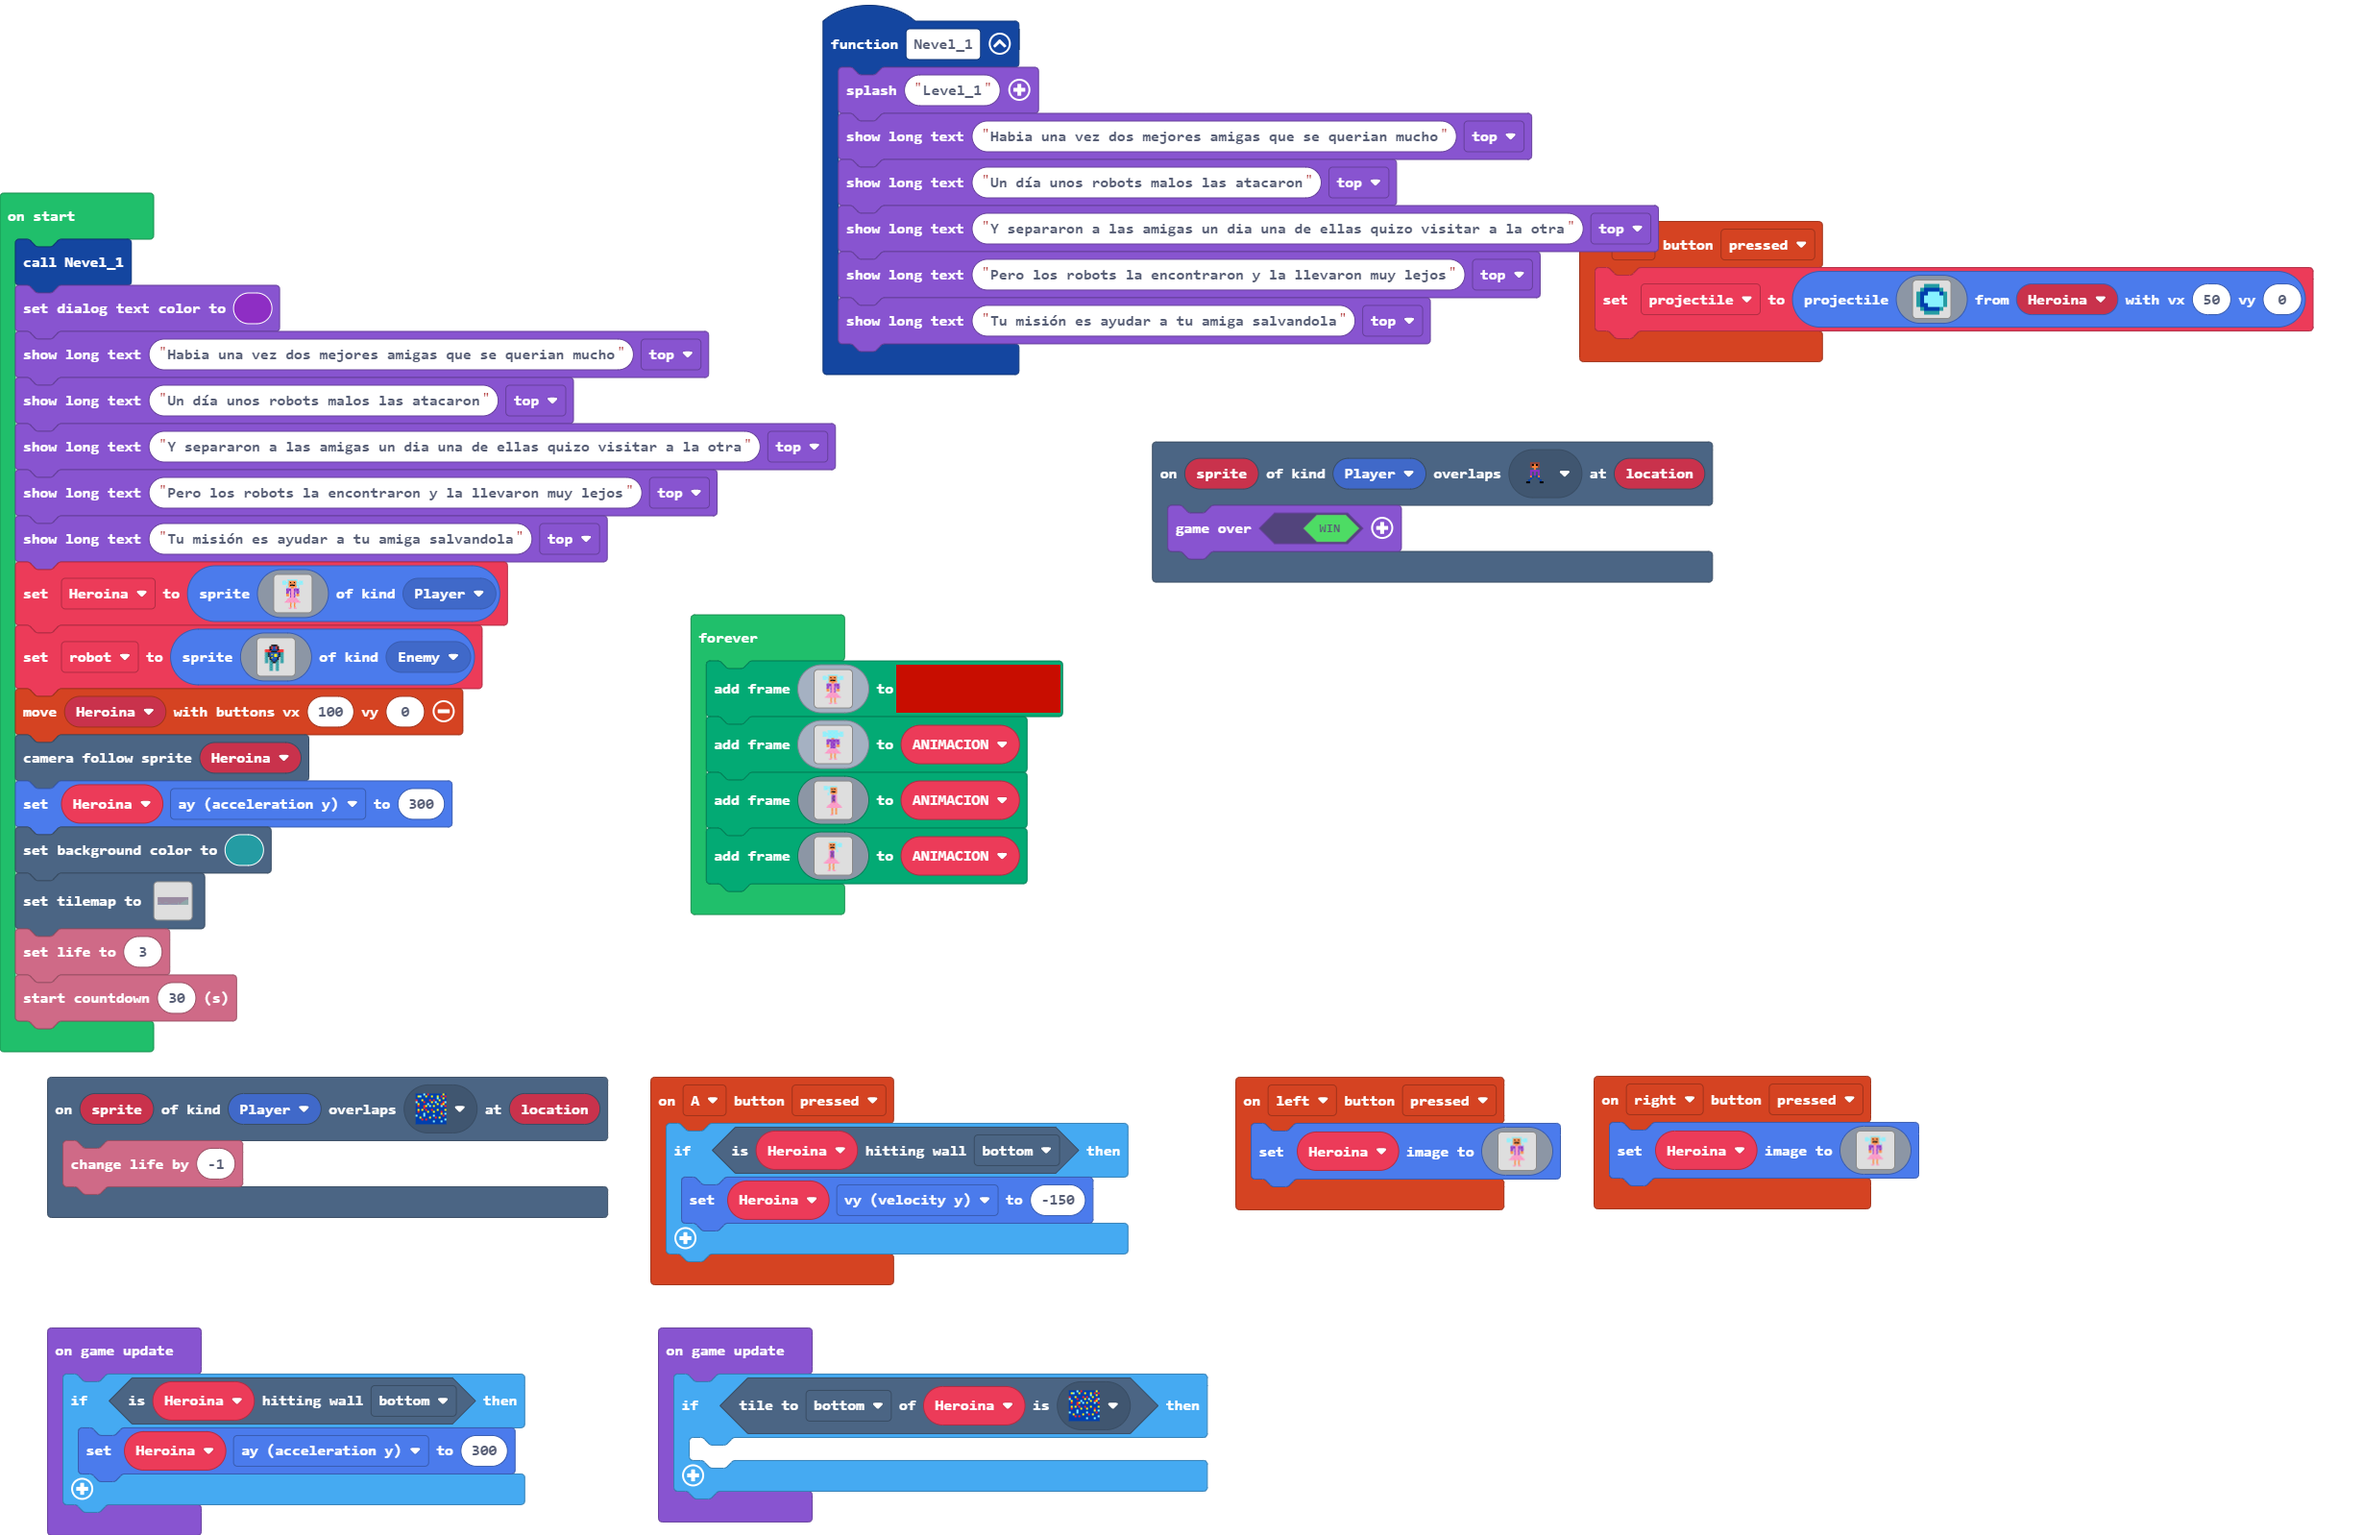
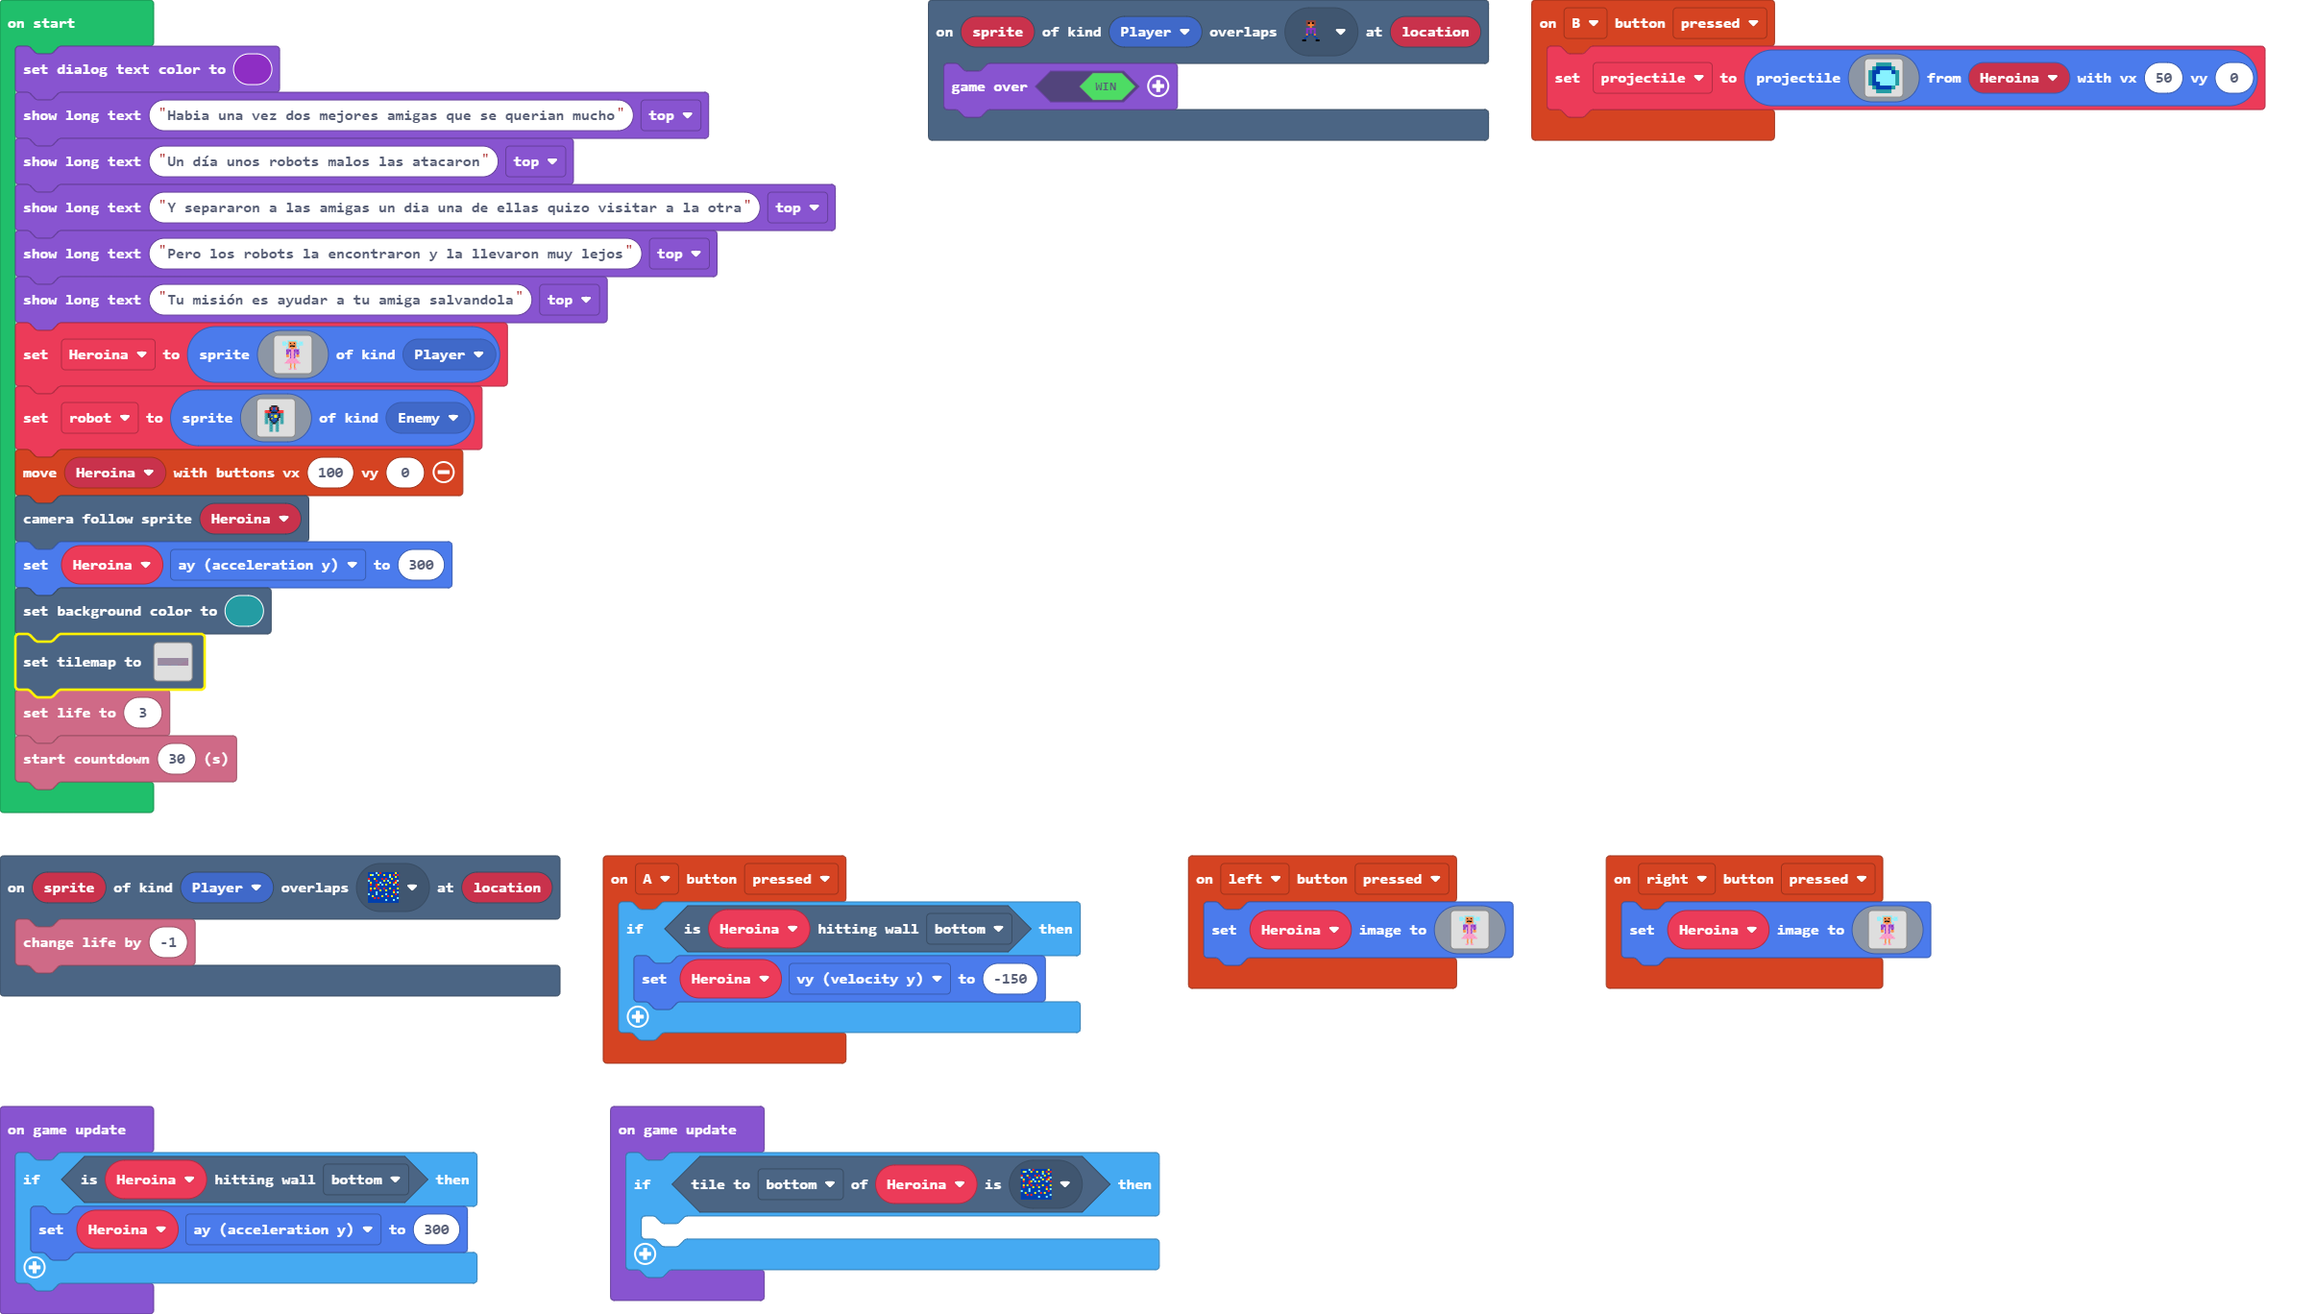
color de mapa

diff --git a/main.ts b/main.ts
@@ -1,18 +1,9 @@
 namespace SpriteKind {
     export const Mascota = SpriteKind.create()
-    export const Premio_1 = SpriteKind.create()
 }
 scene.onOverlapTile(SpriteKind.Player, myTiles.tile3, function (sprite, location) {
     game.over(true)
 })
-function Nevel_1 () {
-    game.splash("Level_1")
-    game.showLongText("Habia una vez dos mejores amigas que se querian mucho", DialogLayout.Top)
-    game.showLongText("Un día unos robots malos las atacaron", DialogLayout.Top)
-    game.showLongText("Y separaron a las amigas un dia una de ellas quizo visitar a la otra", DialogLayout.Top)
-    game.showLongText("Pero los robots la encontraron y la llevaron muy lejos", DialogLayout.Top)
-    game.showLongText("Tu misión es ayudar a tu amiga salvandola", DialogLayout.Top)
-}
 controller.B.onEvent(ControllerButtonEvent.Pressed, function () {
     projectile = sprites.createProjectileFromSprite(img`
         . . 6 6 6 6 . . 
@@ -91,7 +82,6 @@ controller.right.onEvent(ControllerButtonEvent.Pressed, function () {
 })
 let projectile: Sprite = null
 let Heroina: Sprite = null
-Nevel_1()
 game.setDialogTextColor(10)
 game.showLongText("Habia una vez dos mejores amigas que se querian mucho", DialogLayout.Top)
 game.showLongText("Un día unos robots malos las atacaron", DialogLayout.Top)
@@ -150,7 +140,7 @@ controller.moveSprite(Heroina, 100, 0)
 scene.cameraFollowSprite(Heroina)
 Heroina.ay = 300
 scene.setBackgroundColor(6)
-tiles.setTilemap(tiles.createTilemap(hex`4000100004040404040404040404040404040404040404040404040404040404040404040404040404040404040404040404040404040404040404040404040404040404040404040404040404040404040404040404040404040404040404040404040404040404040404040404040404040404040404040404040404040404040404040404040404040404040404040404040404040404040404040404040404040404040404040404040404040404040404040404040404040404040404040404040404040404040404040404040404040404040404040404040404040404040404040404040404040404040404040404040404040404040404040404040404040404040404040404040404040404040404040404040404040404040404040404040404040404040404040404040404040404040404040404040404040404040404020404040404040404040404040404040404040404040404040404040404040404040404040404040404040404040404040404040404040404040404040101010104040404040404040404040404040404040404040404040404040404040404040404040404040404040404040404040404040404040404040404010101010101040404040404040404040404040404040404040404040404040404040404040404040404040404040404040404040404040404040404040401010101010101010404040404040404040404040404040404040404040404040404040404040404040404040404040404040404040404040404040404040101010101010101010104040404040404040404040404040404040404040404040404040404040404040404040404040404040404040404040404040404040101010101010101010101040404040404040404040404040404040404040404040404040404040404040404040404040404010404040404040404040404010101010101010101010101010101010101010404040404040404010101010101010404040404040404040404040404040404040404040101040404040404010101010101010101010101010104040404040404040404040401040404040404040404040404040404040404040404040404010404040401010404040404010101010101010101010101010101040404040404010404040404040404040404040404040404040404040104010404010401040404040404010104040404010101010101010101010101010101010404040404040404040104040404040404040404040404040404040404040404040404040404040404040101040404010101010101010101010101010101010103030303030303030303030303030303030303030303010101010101030303030303030303030303030301010101010101010101010101010101010101010101`, img`
+tiles.setTilemap(tiles.createTilemap(hex`4000100003030303030303030303030303030303030303030303030303030303030303030303030303030303030303030303030303030303030303030303030303030303030303030303030303030303030303030303030303030303030303030303030303030303030303030303030303030303030303030303030303030303030303030303030303030303030303030303030303030303030303030303030303030303030303030303030303030303030303030303030303030303030303030303030303030303030303030303030303030303030303030303030303030303030303030303030303030303030303030303030303030303030303030303030303030303030303030303030303030303030303030303030303030303030303030303030303030303030303030303030303030303030303030303030303030303030303010303030303030303030303030303030303030303030303030303030303030303030303030303030303030303030303030303030303030303030303030404040403030303030303030303030303030303030303030303030303030303030303030303030303030303030303030303030303030303030303030303040404040404030303030303030303030303030303030303030303030303030303030303030303030303030303030303030303030303030303030303030304040404040404040303030303030303030303030303030303030303030303030303030303030303030303030303030303030303030303030303030303030404040404040404040403030303030303030303030303030303030303030303030303030303030303030303030303030303030303030303030303030303030404040404040404040404030303030303030303030303030303030303030303030303030303030303030303030303030303040303030303030303030303040404040404040404040404040404040404040303030303030303040404040404040303030303030303030303030303030303030303030404030303030303040404040404040404040404040403030303030303030303030304030303030303030303030303030303030303030303030303040303030304040303030303040404040404040404040404040404030303030303040303030303030303030303030303030303030303030403040303040304030303030303040403030303040404040404040404040404040404040303030303030303030403030303030303030303030303030303030303030303030303030303030303030404030303040404040404040404040404040404040402020202020202020202020202020202020202020202040404040404020202020202020202020202020204040404040404040404040404040404040404040404`, img`
     . . . . . . . . . . . . . . . . . . . . . . . . . . . . . . . . . . . . . . . . . . . . . . . . . . . . . . . . . . . . . . . . 
     . . . . . . . . . . . . . . . . . . . . . . . . . . . . . . . . . . . . . . . . . . . . . . . . . . . . . . . . . . . . . . . . 
     . . . . . . . . . . . . . . . . . . . . . . . . . . . . . . . . . . . . . . . . . . . . . . . . . . . . . . . . . . . . . . . . 
@@ -167,7 +157,7 @@ tiles.setTilemap(tiles.createTilemap(hex`400010000404040404040404040404040404040
     . . . . . . 2 . . . . . . . . . . . . . . . . . . . . . 2 . 2 . . 2 . 2 . . . . . . 2 2 . . . . 2 2 2 2 2 2 2 2 2 2 2 2 2 2 2 2 
     . . . . . . . . . 2 . . . . . . . . . . . . . . . . . . . . . . . . . . . . . . . . 2 2 . . . 2 2 2 2 2 2 2 2 2 2 2 2 2 2 2 2 2 
     . . . . . . . . . . . . . . . . . . . . . . 2 2 2 2 2 2 . . . . . . . . . . . . . . 2 2 2 2 2 2 2 2 2 2 2 2 2 2 2 2 2 2 2 2 2 2 
-    `, [myTiles.transparency16,sprites.dungeon.greenOuterNorth0,myTiles.tile3,myTiles.tile4,myTiles.tile5], TileScale.Sixteen))
+    `, [myTiles.transparency16,myTiles.tile3,myTiles.tile4,myTiles.tile5,myTiles.tile6], TileScale.Sixteen))
 info.setLife(3)
 info.startCountdown(30)
 game.onUpdate(function () {
@@ -179,111 +169,4 @@ game.onUpdate(function () {
     if (Heroina.tileKindAt(TileDirection.Bottom, myTiles.tile4)) {
     	
     }
-})
-forever(function () {
-    let ANIMACION: animation.Animation = null
-    ANIMACION.addAnimationFrame(img`
-        . . . . . . . . . . . . . . . . 
-        . . . . 9 9 9 9 9 9 9 9 . . . . 
-        9 9 9 . 9 4 4 4 4 4 4 9 . 9 9 9 
-        9 9 9 9 9 4 f 4 4 f 4 9 9 9 9 9 
-        9 9 9 . 9 4 4 4 4 4 4 9 . 9 9 9 
-        . . . . 9 4 f f f f 4 9 9 . . . 
-        . . . 9 . 4 4 4 4 4 4 . 9 . . . 
-        . . . 9 . . . 4 4 . . . 9 . . . 
-        . . . a a a a 3 3 a a a a . . . 
-        . . . a a a a 3 3 a a a a . . . 
-        . . . a a . a 3 3 a . a a . . . 
-        . . . a a . a 3 3 a . a a . . . 
-        . . . 4 4 . a 3 3 a . 4 4 . . . 
-        . . . 4 4 . a 3 3 a . 4 4 . . . 
-        . . . . . . a 3 3 a . . . . . . 
-        . . . . . 3 3 3 3 3 3 . . . . . 
-        . . . . 3 3 3 3 3 3 3 3 . . . . 
-        . . . 3 3 3 3 3 3 3 3 3 3 . . . 
-        . . 3 3 3 3 3 3 3 3 3 3 3 3 . . 
-        . . . . . . 4 . . 4 . . . . . . 
-        . . . . . . 4 . . 4 . . . . . . 
-        . . . . . . 4 . . 4 . . . . . . 
-        . . . . . . 4 . . 4 . . . . . . 
-        . . . . . 3 3 . . 3 3 . . . . . 
-        `)
-    ANIMACION.addAnimationFrame(img`
-        . . . . . . . . . . . . . . . . 
-        . . . . 9 9 9 9 9 9 9 9 . . . . 
-        9 9 9 . 9 9 9 9 9 9 9 9 . 9 9 9 
-        9 9 9 9 9 9 9 9 9 9 9 9 9 9 9 9 
-        9 9 9 9 9 9 9 9 9 9 9 9 9 9 9 9 
-        9 9 9 . 9 9 9 9 9 9 9 9 . 9 9 9 
-        . . . . 9 9 9 9 9 9 9 9 . . . . 
-        . . . . . . . 4 4 . . . . . . . 
-        . . . a a a a a a a a a a . . . 
-        . . . a a a a a a a a a a . . . 
-        . . . a a . a a a a . a a . . . 
-        . . . a a . a a a a . a a . . . 
-        . . . 4 4 . a a a a . 4 4 . . . 
-        . . . 4 4 . a a a a . 4 4 . . . 
-        . . . . . . a a a a . . . . . . 
-        . . . . . 3 3 3 3 3 3 . . . . . 
-        . . . . 3 3 3 3 3 3 3 3 . . . . 
-        . . . 3 3 3 3 3 3 3 3 3 3 . . . 
-        . . 3 3 3 3 3 3 3 3 3 3 3 3 . . 
-        . . . . . . 4 . . 4 . . . . . . 
-        . . . . . . 4 . . 4 . . . . . . 
-        . . . . . . 4 . . 4 . . . . . . 
-        . . . . . . 4 . . 4 . . . . . . 
-        . . . . . 3 3 . . 3 3 . . . . . 
-        `)
-    ANIMACION.addAnimationFrame(img`
-        . . . . . . . . . . . . . . . . 
-        . 9 9 9 . 9 9 9 9 9 9 . . . . . 
-        . 9 9 9 9 9 4 4 4 4 4 . . . . . 
-        . 9 9 9 . 9 4 f 4 f 4 . . . . . 
-        . . . . . 9 4 4 4 4 4 . . . . . 
-        . . . . . 9 4 f f f 4 . . . . . 
-        . . . . 9 . 4 4 4 4 4 . . . . . 
-        . . . . 9 . . . 4 . . . . . . . 
-        . . . . . . . a a a 3 . . . . . 
-        . . . . . . . a c a 3 . . . . . 
-        . . . . . . . a c a 3 . . . . . 
-        . . . . . . . a c a 3 . . . . . 
-        . . . . . . . a c a 3 . . . . . 
-        . . . . . . . a 4 a 3 . . . . . 
-        . . . . . . 3 3 3 3 3 3 . . . . 
-        . . . . . 3 3 3 3 3 3 3 3 . . . 
-        . . . . 3 3 3 3 3 3 3 3 3 3 . . 
-        . . . 3 3 3 3 3 3 3 3 3 3 3 3 . 
-        . . . . . . . 4 . . 4 . . . . . 
-        . . . . . . . 4 . . 4 . . . . . 
-        . . . . . . . 4 . . 4 . . . . . 
-        . . . . . . . 4 . . 4 . . . . . 
-        . . . . . . . 4 . . 4 . . . . . 
-        . . . . . . 3 3 . . . . . . . . 
-        `)
-    ANIMACION.addAnimationFrame(img`
-        . . . . . . . . . . . . . . . . 
-        . . . . . 9 9 9 9 9 9 . . . . . 
-        . . . . . 4 4 4 4 4 9 . 9 9 9 . 
-        . . . . . 4 f 4 f 4 9 9 9 9 9 . 
-        . . . . . 4 4 4 4 4 9 . 9 9 9 . 
-        . . . . . 4 f f f 4 9 . . . . . 
-        . . . . . 4 4 4 4 4 9 . . . . . 
-        . . . . . . . 4 . . . 9 . . . . 
-        . . . . . 3 a a a . . 9 . . . . 
-        . . . . . 3 a c a . . . . . . . 
-        . . . . . 3 a c a . . . . . . . 
-        . . . . . 3 a c a . . . . . . . 
-        . . . . . 3 a c a . . . . . . . 
-        . . . . . 3 a 4 a . . . . . . . 
-        . . . . 3 3 3 3 3 3 . . . . . . 
-        . . . 3 3 3 3 3 3 3 3 . . . . . 
-        . . 3 3 3 3 3 3 3 3 3 3 . . . . 
-        . 3 3 3 3 3 3 3 3 3 3 3 3 . . . 
-        . . . . . 4 . . 4 . . . . . . . 
-        . . . . . 4 . . 4 . . . . . . . 
-        . . . . . 4 . . 4 . . . . . . . 
-        . . . . . 4 . . 4 . . . . . . . 
-        . . . . . 4 . . 4 . . . . . . . 
-        . . . . 3 3 . . 3 3 . . . . . . 
-        `)
 })

diff --git a/tilemap.g.ts b/tilemap.g.ts
@@ -12,6 +12,12 @@ namespace myTiles {
     export const tile4 = image.ofBuffer(hex``);
     //% fixedInstance jres blockIdentity=images._tile
     export const tile5 = image.ofBuffer(hex``);
+    //% fixedInstance jres blockIdentity=images._tile
+    export const tile6 = image.ofBuffer(hex``);
+    //% fixedInstance jres blockIdentity=images._tile
+    export const tile7 = image.ofBuffer(hex``);
+    //% fixedInstance jres blockIdentity=images._tile
+    export const tile8 = image.ofBuffer(hex``);
 
 }
 // Auto-generated code. Do not edit.
